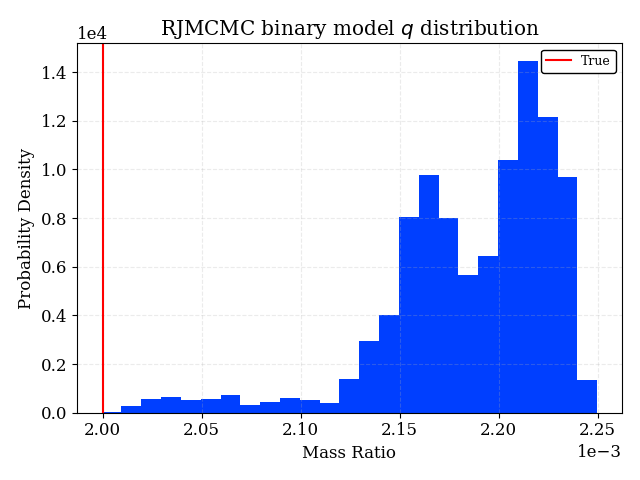
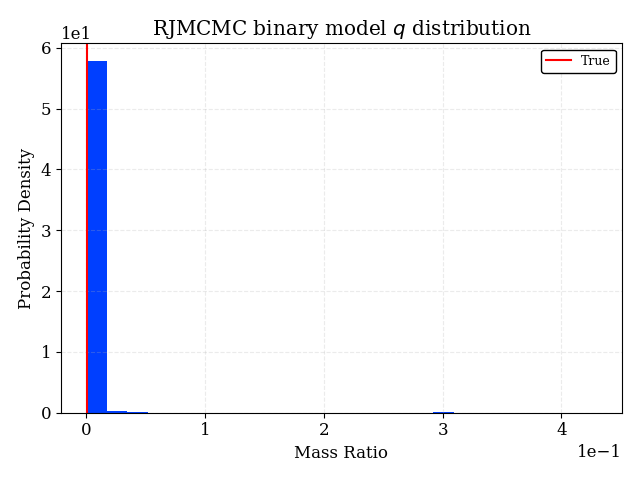
prior issues

Changed region(s): [[0.0625, 0.0625, 0.9688, 0.9688], [0.25, 0.0312, 0.8438, 0.0938]]

diff --git a/ReversibleJump.py b/ReversibleJump.py
@@ -39,23 +39,23 @@ symbols = [r'$t_0$', r'$u_0$', r'$t_E$', r'$\rho$', r'$q$', r'$s$', r'$\alpha$']
 
 ## INITIALISATION ##
 
-sn = 2
+sn = 4
 
 # Synthetic Event Parameters
 theta_Models = [
     [36, 0.133, 31.5, 0.0096, 0.002, 1.27, 210.8], # strong binary
     [36, 0.133, 31.5, 0.0096, 0.00091, 1.3, 210.8], # weak binary 1
-    [36, 0.133, 31.5, 0.0056, 0.0007, 1.3, 210.8], # weak binary 2
+    [36, 0.133, 31.5, 0.0056, 0.0005, 1.3, 210.8], # weak binary 2
     [36, 0.133, 31.5, 0.0096, 0.0002, 4.9, 223.8], # indistiguishable from single
     [36, 0.133, 31.5]  # single
     ]
 theta_Model = np.array(theta_Models[sn])
 
-Model = mm.Model(dict(zip(['t_0', 'u_0', 't_E', 'rho', 'q', 's', 'alpha'], theta_Model)))
-Model.set_magnification_methods([0., 'VBBL', 72.])
+#Model = mm.Model(dict(zip(['t_0', 'u_0', 't_E', 'rho', 'q', 's', 'alpha'], theta_Model)))
+#Model.set_magnification_methods([0., 'VBBL', 72.])
 
-#Model = mm.Model(dict(zip(['t_0', 'u_0', 't_E'], theta)))
-#Model.set_magnification_methods([0., 'point_source', 72.])
+Model = mm.Model(dict(zip(['t_0', 'u_0', 't_E'], theta_Model)))
+Model.set_magnification_methods([0., 'point_source', 72.])
 
 #Model.plot_magnification(t_range=[0, 72], subtract_2450000=False, color='black')
 #plt.savefig('temp.jpg')
@@ -65,11 +65,11 @@ Model.set_magnification_methods([0., 'VBBL', 72.])
 #0, 50, 25, 0.3
 # Generate "Synthetic" Lightcurve
 #epochs = Model.set_times(n_epochs = 720)
-n_epochs = 720
+n_epochs = 72
 epochs = np.linspace(0, 72, n_epochs + 1)[:n_epochs]
 #signal_data = Model.magnification(t)
 #epochs = Model.set_times(n_epochs = 100)
-error = Model.magnification(epochs)/100 + 0.5/Model.magnification(epochs)
+error = Model.magnification(epochs) * 0 + np.max(Model.magnification(epochs))/30 #Model.magnification(epochs)/100 + 0.5/Model.magnification(epochs)
 Data = mm.MulensData(data_list = [epochs, Model.magnification(epochs), error], phot_fmt = 'flux', chi2_fmt = 'flux')
 
 signal_n_epochs = 720
@@ -80,7 +80,7 @@ signal_data = Model.magnification(signal_epochs)
 
 #print(Model.magnification(epochs))
 
-iterations = 500
+iterations = 3000
 
 
 
@@ -130,11 +130,11 @@ binary_Sposterior = interf.get_posteriors(2)
 
 def ParralelMain(arr):
 
-    sn, Data, signal_data, priors, binary_Sposterior, single_Sposterior, m_pi, iterations = arr
+    sn, Data, signal_data, priors, binary_Sposterior, single_Sposterior, m_pi, iterations, Model, error, epochs = arr
 
     # centreing points for inter-model jumps
     center_1s = np.array([36., 0.133, 31.5])
-    #center_1 = np.array([36., 0.133, 61.5])
+    center_1 = np.array([36., 0.133, 31.5])
 
     center_2ss = [
         [36, 0.133, 61.5, 0.0096, np.log(0.002), 1.27, 210.8], # strong binary
@@ -145,30 +145,37 @@ def ParralelMain(arr):
     #center_2 = np.array(center_2s[sn])
 
     center_2s = interf.get_model_centers(binary_Sposterior, signal_data)
-    center_2s[4] = np.log(center_2s[4])
+    #center_2s = [3.60166321e+01, 1.33796528e-01, 3.12476940e+01, 1.09757202e-04, 9.51249094e-04, 1.06277907e+00, 2.07451248e+02]
+
+
+    #center_2s[4] = np.log(center_2s[4])
+    #center_2s = f.scale(center_2s)
 
     #print("\n", center_2, " hi")
     #center_1s = interf.get_model_centers(single_Sposterior, signal_data)
     #print(Data.flux)
     #binary_ensemble = interf.get_model_ensemble(binary_posterior, Data.flux, 100000)
 
-    '''
-    fun = lambda x: -np.exp(f.logLikelihood(1, Data, f.scale(x), priors))
-    min_center_1 = minimize(fun, center_1s, method='CG')
-    print(min_center_1)
-    center_1 = min_center_1.x
+    pltf.LightcurveFitError(2, center_2s, priors, Data, Model, epochs, error, True, "BinaryCenterSurr")
+    pltf.LightcurveFitError(1, center_1s, priors, Data, Model, epochs, error, True, "SingleCenterSurr")
 
-    fun = lambda x: -np.exp(f.logLikelihood(2, Data, f.scale(x), priors))
-    min_center_2 = minimize(fun, center_2s, method='CG')
-    print(min_center_2)
-    center_2 = min_center_2.x
-    '''
+    
+    #fun_1 = lambda x: -f.logLikelihood(1, Data, x, priors)
+    #min_center_1 = minimize(fun_1, center_1s, method='Nelder-Mead')
+    #print(min_center_1)
+    #center_1 = min_center_1.x
 
-
-
-
+    #fun_2 = lambda x: -f.logLikelihood(2, Data, x, priors)
+    #min_center_2 = minimize(fun_2, center_2s, method='Nelder-Mead')
+    #print(min_center_2)
+    #center_2 = min_center_2.x
 
 
+    #pltf.LightcurveFitError(2, center_2, priors, Data, Model, epochs, error, True, "BinaryCenterOpt")
+    #pltf.LightcurveFitError(1, center_1, priors, Data, Model, epochs, error, True, "SingleCenterOpt")
+
+
+    #center_2 = f.scale(center_2)
 
     # initial covariances (diagonal)
     cov_scale = 0.01 #0.01
@@ -185,27 +192,32 @@ def ParralelMain(arr):
     burns = 25
     iters = 500#250
     theta_1i = center_1s
-    theta_2i = center_2s
-    covariance_1p, states_1, means_1, c_1, null, bests, center_1 = f.AdaptiveMCMC(1, Data, theta_1i, priors, covariance_1, burns, iters)
-    covariance_2p, states_2, means_2, c_2, null, bests, center_2 = f.AdaptiveMCMC(2, Data, theta_2i, priors, covariance_2, burns, iters)
+    theta_2i = f.scale(center_2s)
+    covariance_1p, states_1, means_1, c_1, null, bests, bestt_1 = f.AdaptiveMCMC(1, Data, theta_1i, priors, covariance_1, burns, iters)
+    covariance_2p, states_2, means_2, c_2, null, bests, bestt_2 = f.AdaptiveMCMC(2, Data, theta_2i, priors, covariance_2, burns, iters)
 
     covariance_p = [covariance_1p, covariance_2p]
 
-    #center_1 = states_1[:, -1]
-    #center_2 = states_2[:, -1]
+    #center_1 = bestt_1
+    center_2 = bestt_2
     
-    print(center_1s, center_1)
-    print(center_2s, center_2)
+    #print(center_1s, center_1)
+    #print(center_2s, center_2)
 
-    print("Center 1", center_1, "True Prob", np.exp(f.logLikelihood(1, Data, center_1, priors)))
-    print("Center 2", center_2, "True Prob", np.exp(f.logLikelihood(2, Data, center_2, priors)))
+    #print("Center 1", center_1, "True Chi", -(f.logLikelihood(1, Data, center_1, priors)))
+    #print("Center 2", center_2, "True Chi", -(f.logLikelihood(2, Data, f.unscale(2, center_2), priors)))
     centers = [center_1, center_2]
+
+
+    pltf.LightcurveFitError(2, f.unscale(2, bestt_2), priors, Data, Model, epochs, error, True, "BinaryCenterMCMC")
+    pltf.LightcurveFitError(1, bestt_1, priors, Data, Model, epochs, error, True, "SingleCenterMCMC")
+
 
     # loop specific values
 
     #print(states_1[:, -1])
-    theta = center_1#states_1[:, -1]#[36., 0.133, 61.5]#, 0.0014, 0.0009, 1.26, 224.]
-    print(theta)
+    theta = center_1 #states_1[:, -1]#[36., 0.133, 61.5]#, 0.0014, 0.0009, 1.26, 224.]
+    #print(theta)
     m = 1
     pi = (f.logLikelihood(m, Data, f.unscale(m, theta), priors))
     #print(pi)
@@ -244,7 +256,7 @@ def ParralelMain(arr):
 
     n_samples = 10000
     samples, log_prob_samples = interf.get_model_ensemble(binary_Sposterior, signal_data, n_samples)
-    
+    samples = (samples - f.unscale(2, center_2))/100 + f.unscale(2, center_2)
 
     for i in range(iterations): # loop through RJMCMC steps
         
@@ -336,13 +348,13 @@ def ParralelMain(arr):
     return states, adaptive_score, ms, bestt, bests, centers
 
 
-params = [sn, Data, signal_data, priors, binary_Sposterior, single_Sposterior, m_pi, iterations]
+params = [sn, Data, signal_data, priors, binary_Sposterior, single_Sposterior, m_pi, iterations,  Model, error, epochs]
 
 states, adaptive_score, ms, bestt, bests, centers = ParralelMain(params)
 center_1, center_2 = centers
 
-pltf.LightcurveFitError(2, f.unscale(2, center_2), priors, Data, Model, epochs, error, True, "BinaryCenter")
-pltf.LightcurveFitError(1, center_1, priors, Data, Model, epochs, error, True, "SingleCenter")
+
+
 
 '''
 p = 2
@@ -483,13 +495,13 @@ states_u=np.array(states_u)
 
 
 
-pltf.LightcurveFitError(2, bestt[1], priors, Data, Model, epochs, error, details)
+#pltf.LightcurveFitError(2, bestt[1][:], priors, Data, Model, epochs, error, details, 'BestBinary')
 
-pltf.LightcurveFitError(1, bestt[0], priors, Data, Model, epochs, error, details)
-
-
+#pltf.LightcurveFitError(1, bestt[0][:], priors, Data, Model, epochs, error, details, 'BestSingle')
 
 
+
+pltf.PlotWalk(3, 4, states_2, f.unscale(2, center_2), theta_Model, labels, symbols, details)
 
 pltf.PlotWalk(4, 5, states_2, f.unscale(2, center_2), theta_Model, labels, symbols, details)
 
@@ -510,6 +522,10 @@ pltf.DistPlot(1, 0, states_1, f.unscale(1, center_1), theta_Model, labels, symbo
 pltf.DistPlot(1, 1, states_1, f.unscale(1, center_1), theta_Model, labels, symbols, details)
 pltf.DistPlot(1, 2, states_1, f.unscale(1, center_1), theta_Model, labels, symbols, details)
 
+
+pltf.PlotWalk(0, 1, states_1, f.unscale(1, center_1), theta_Model, labels, symbols, details)
+
+pltf.PlotWalk(2, 0, states_1, f.unscale(1, center_1), theta_Model, labels, symbols, details)
 
 pltf.PlotWalk(2, 1, states_1, f.unscale(1, center_1), theta_Model, labels, symbols, details)
 

diff --git a/Functions.py b/Functions.py
@@ -164,7 +164,7 @@ def AdaptiveMCMC(m, data, theta, priors, covariance, burns, iterations):
 
 
         cf = i/(iterations-1);
-        print(f'Progress: [{"#"*round(50*cf)+"-"*round(50*(1-cf))}] {100.*cf:.2f}%\r', end='')
+        print(f'Current Best Likelihood: {bests:.4f}, Progress: [{"#"*round(50*cf)+"-"*round(50*(1-cf))}] {100.*cf:.2f}%\r', end='')
 
         # propose a new state and calculate the resulting likelihood and prior ratio
         proposed = GaussianProposal(theta, covariance)
@@ -229,12 +229,14 @@ def Propose(Data, signal_data, m, mProp, theta, pi, covariance, centers, binary_
     #    gratio = 1
 
     acc = np.exp(piProp-pi) * priorRatio * gratio# * J
-    if mProp == 2 and m == 1 and False:
-        print("next")
-        print("acc: ", acc)
-        print("piProp: ", np.exp(piProp))
-        print("pi: ", np.exp(pi))
-        print("prior Ratio: ", priorRatio)
+    #if mProp == 2 and m == 1 and True:
+        #print("next")
+        #print("acc: ", acc)
+        #print("piProp: ", np.exp(piProp))
+        #print("pi: ", np.exp(pi))
+        #print("prior Ratio: ", priorRatio)
+        #print(unscale(m, theta), unscale(mProp, thetaProp))
+        #print('gratio', gratio)
 
     
     return thetaProp, piProp, acc
@@ -271,8 +273,9 @@ def RJCenteredProposal(m, mProp, theta, covariance, priors, centers, binary_Spos
             g = log_prob_samples[draw]
             for parameter in range(3): # cycle through each parameter and associated prior
                 g -= (priors[parameter].logPDF(theta[parameter]))
+            #print('g ', np.exp(g), g)
 
-            return centers[mProp-1] + l[0:3], np.exp(g)
+            return centers[mProp-1] + l[0:3], 1#np.exp(g)
         
         if mProp == 2: 
 
@@ -336,15 +339,16 @@ def RJCenteredProposal(m, mProp, theta, covariance, priors, centers, binary_Spos
 
             #g = binary_Sposterior.log_prob(theta = torch.tensor(thetaProp).float(), x = signal_data)
             g = log_prob_samples[draw]
-            #for parameter in range(3): # cycle through each parameter and associated prior
-            #    g -= (priors[parameter].logPDF(thetaProp[parameter]))
+            #print(1/np.exp(g))
+            for parameter in range(3): # cycle through each parameter and associated prior
+                g -= (priors[parameter].logPDF(thetaProp[parameter]))
 
             #print(thetaProp)
             
             thetaProp[4] = np.log(thetaProp[4]) # if drawing from surrogate
+            #print('g after', 1/np.exp(g))
 
-
-            return thetaProp, 1/np.exp(g) #1/q(u|l + centers[mProp-1][0:3])
+            return thetaProp, 1#/np.exp(g) #1/q(u|l + centers[mProp-1][0:3])
 
 def D(m):
     '''
@@ -377,7 +381,7 @@ def unscale(m, theta): ############make this into a class
         return thetaT
     
     if m == 2:
-        thetaT[4] = np.exp(theta[4])
+        thetaT[4] = np.exp(thetaT[4])
         return thetaT
 
     return 0

diff --git a/interfaceing.py b/interfaceing.py
@@ -82,6 +82,7 @@ def get_model_centers(posterior, signal_data):
 
     maxp.numpy
     centers = np.float64(maxp)
+    print(centers)
 
     return centers
 
